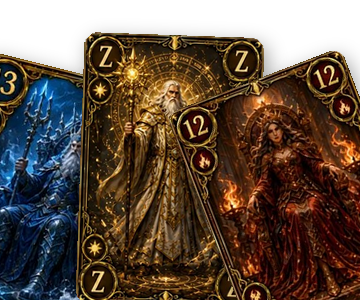
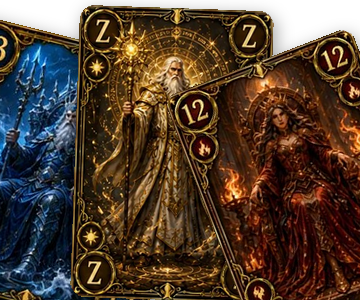
Deck-Kacheln: Karten auf volle Kachelhoehe vergroessert wie Standard
Der Faecher schwebte noch kleiner mittig mit dunklem Rand oben/unten.
Jetzt wie deck-standard.png: Mitte fast volle Hoehe (292px auf 300px-
Kachel, oben knapp unter der Kante), Randkarten bleeden unten und
seitlich ueber die Kanten (Schattenrand beim Platzieren kompensiert).
Gilt fuer Elemente + Mythos. cat-img ?v=6, app v124.

Claude-Session: https://claude.ai/code/session_01MGnrpYm1rjF2AQZegA46XA

diff --git a/app.js b/app.js
@@ -763,7 +763,7 @@ function shopCatalogTile(it, owned) {
     state = `<span class="tile-state owned">✓ Im Besitz</span>`;
   }
 
-  const thumb = `<img class="cat-img" src="${esc(it.img)}?v=5" alt="" loading="lazy">`;
+  const thumb = `<img class="cat-img" src="${esc(it.img)}?v=6" alt="" loading="lazy">`;
   return `<div class="cat-tile${active ? ' is-active' : ''}" data-kind="${esc(it.kind)}" data-rar="${esc(it.rarity)}" style="--r:${r.color}">
     <div class="cat-thumb">${thumb}</div>
     <div class="cat-name">${esc(it.name)}</div>

diff --git a/index.html b/index.html
@@ -2001,6 +2001,6 @@
   window.addEventListener('pagehide', () => { dropFocus(); armInputs(); });
   window.addEventListener('pageshow', () => { dropFocus(); window.scrollTo(0, 0); });
 </script>
-<script type="module" src="./app.js?v=123"></script>
+<script type="module" src="./app.js?v=124"></script>
 </body>
 </html>
